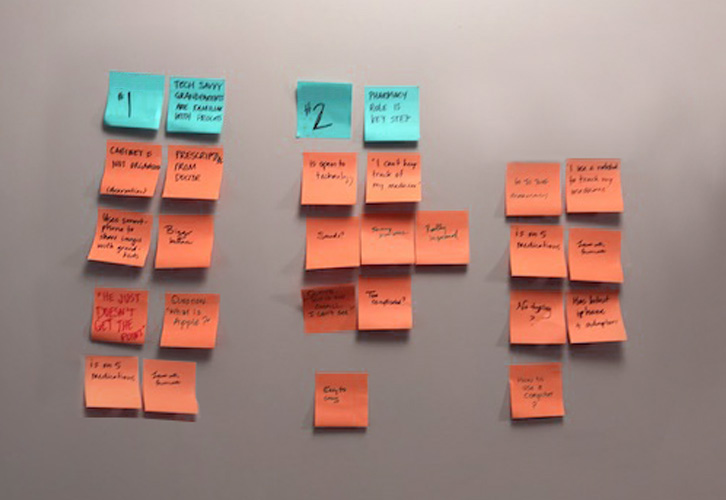
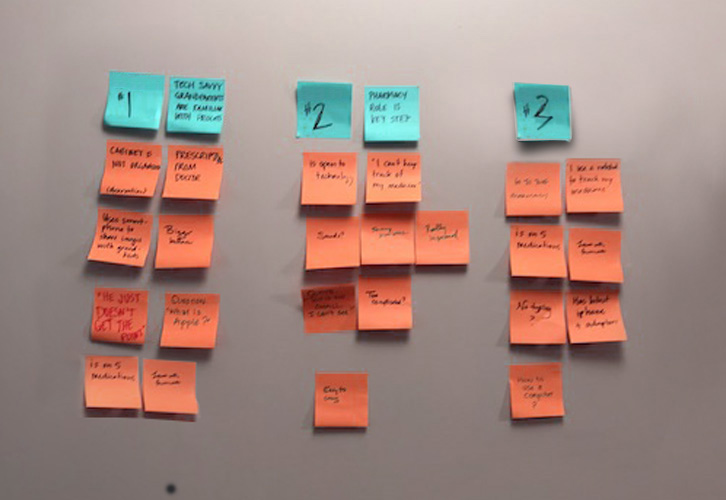
2802_04

Changed region(s): [[0.697, 0.15, 0.8182, 0.33], [0.2121, 0.96, 0.2424, 0.99]]

diff --git a/project/rollcase.html b/project/rollcase.html
@@ -154,10 +154,15 @@
     </div>
 
 
-
     <div class="copy-width spacing-copy">
-      <p class="observable h1 spacing-sub-title">Synthesising Finding</p>
+      <p class="observable h1 spacing-title spacing-medium">Synthesising Finding</p>
+      <p class="observable body spacing-medium">Here, I summarized user quote that narrowing down scope what are the real problem, Here are three pain point :</p>
     </div>
+
+    <div class="copy-width observable spacing-medium">
+      <img class="spacing-medium observable lazy" data-src="../images/projects/rollcase/affinity_diagram.jpg" />
+    </div>
+
 
     <div class="copy-width spacing-small">
       <p class="observable h6 spacing-title">#1 PAIN POINT : Lack of time to organize and feel extra work</p>
@@ -271,12 +276,9 @@
     <div class="copy-width spacing-copy">
       <p class="observable h2 spacing-title">IDEATION</p>
       <p class="observable h1 spacing-title spacing-medium">Possible Idea</p>
-      <p class="observable body spacing-medium">I explored some ideas for the scenarios, Then, I mapped out diagram that narrowed down the idea what should be included in the MVP, and determined priorities of project. Here are four point of the solution i summarized:</p>
+      <p class="observable body spacing-medium">I explored some ideas for the scenarios, Then, I figure out what should be included in the MVP, and determined priorities of project. Here are four point of the solution i suggested:</p>
     </div>
 
-    <div class="copy-width observable spacing-medium">
-      <img class="spacing-medium observable lazy" data-src="../images/projects/rollcase/affinity_diagram.jpg" />
-    </div>
     <!--
     <div class="copy-width spacing-small">
       <p class="observable body spacing-copy h6"><i>Eliminate pain point:</i></p>
